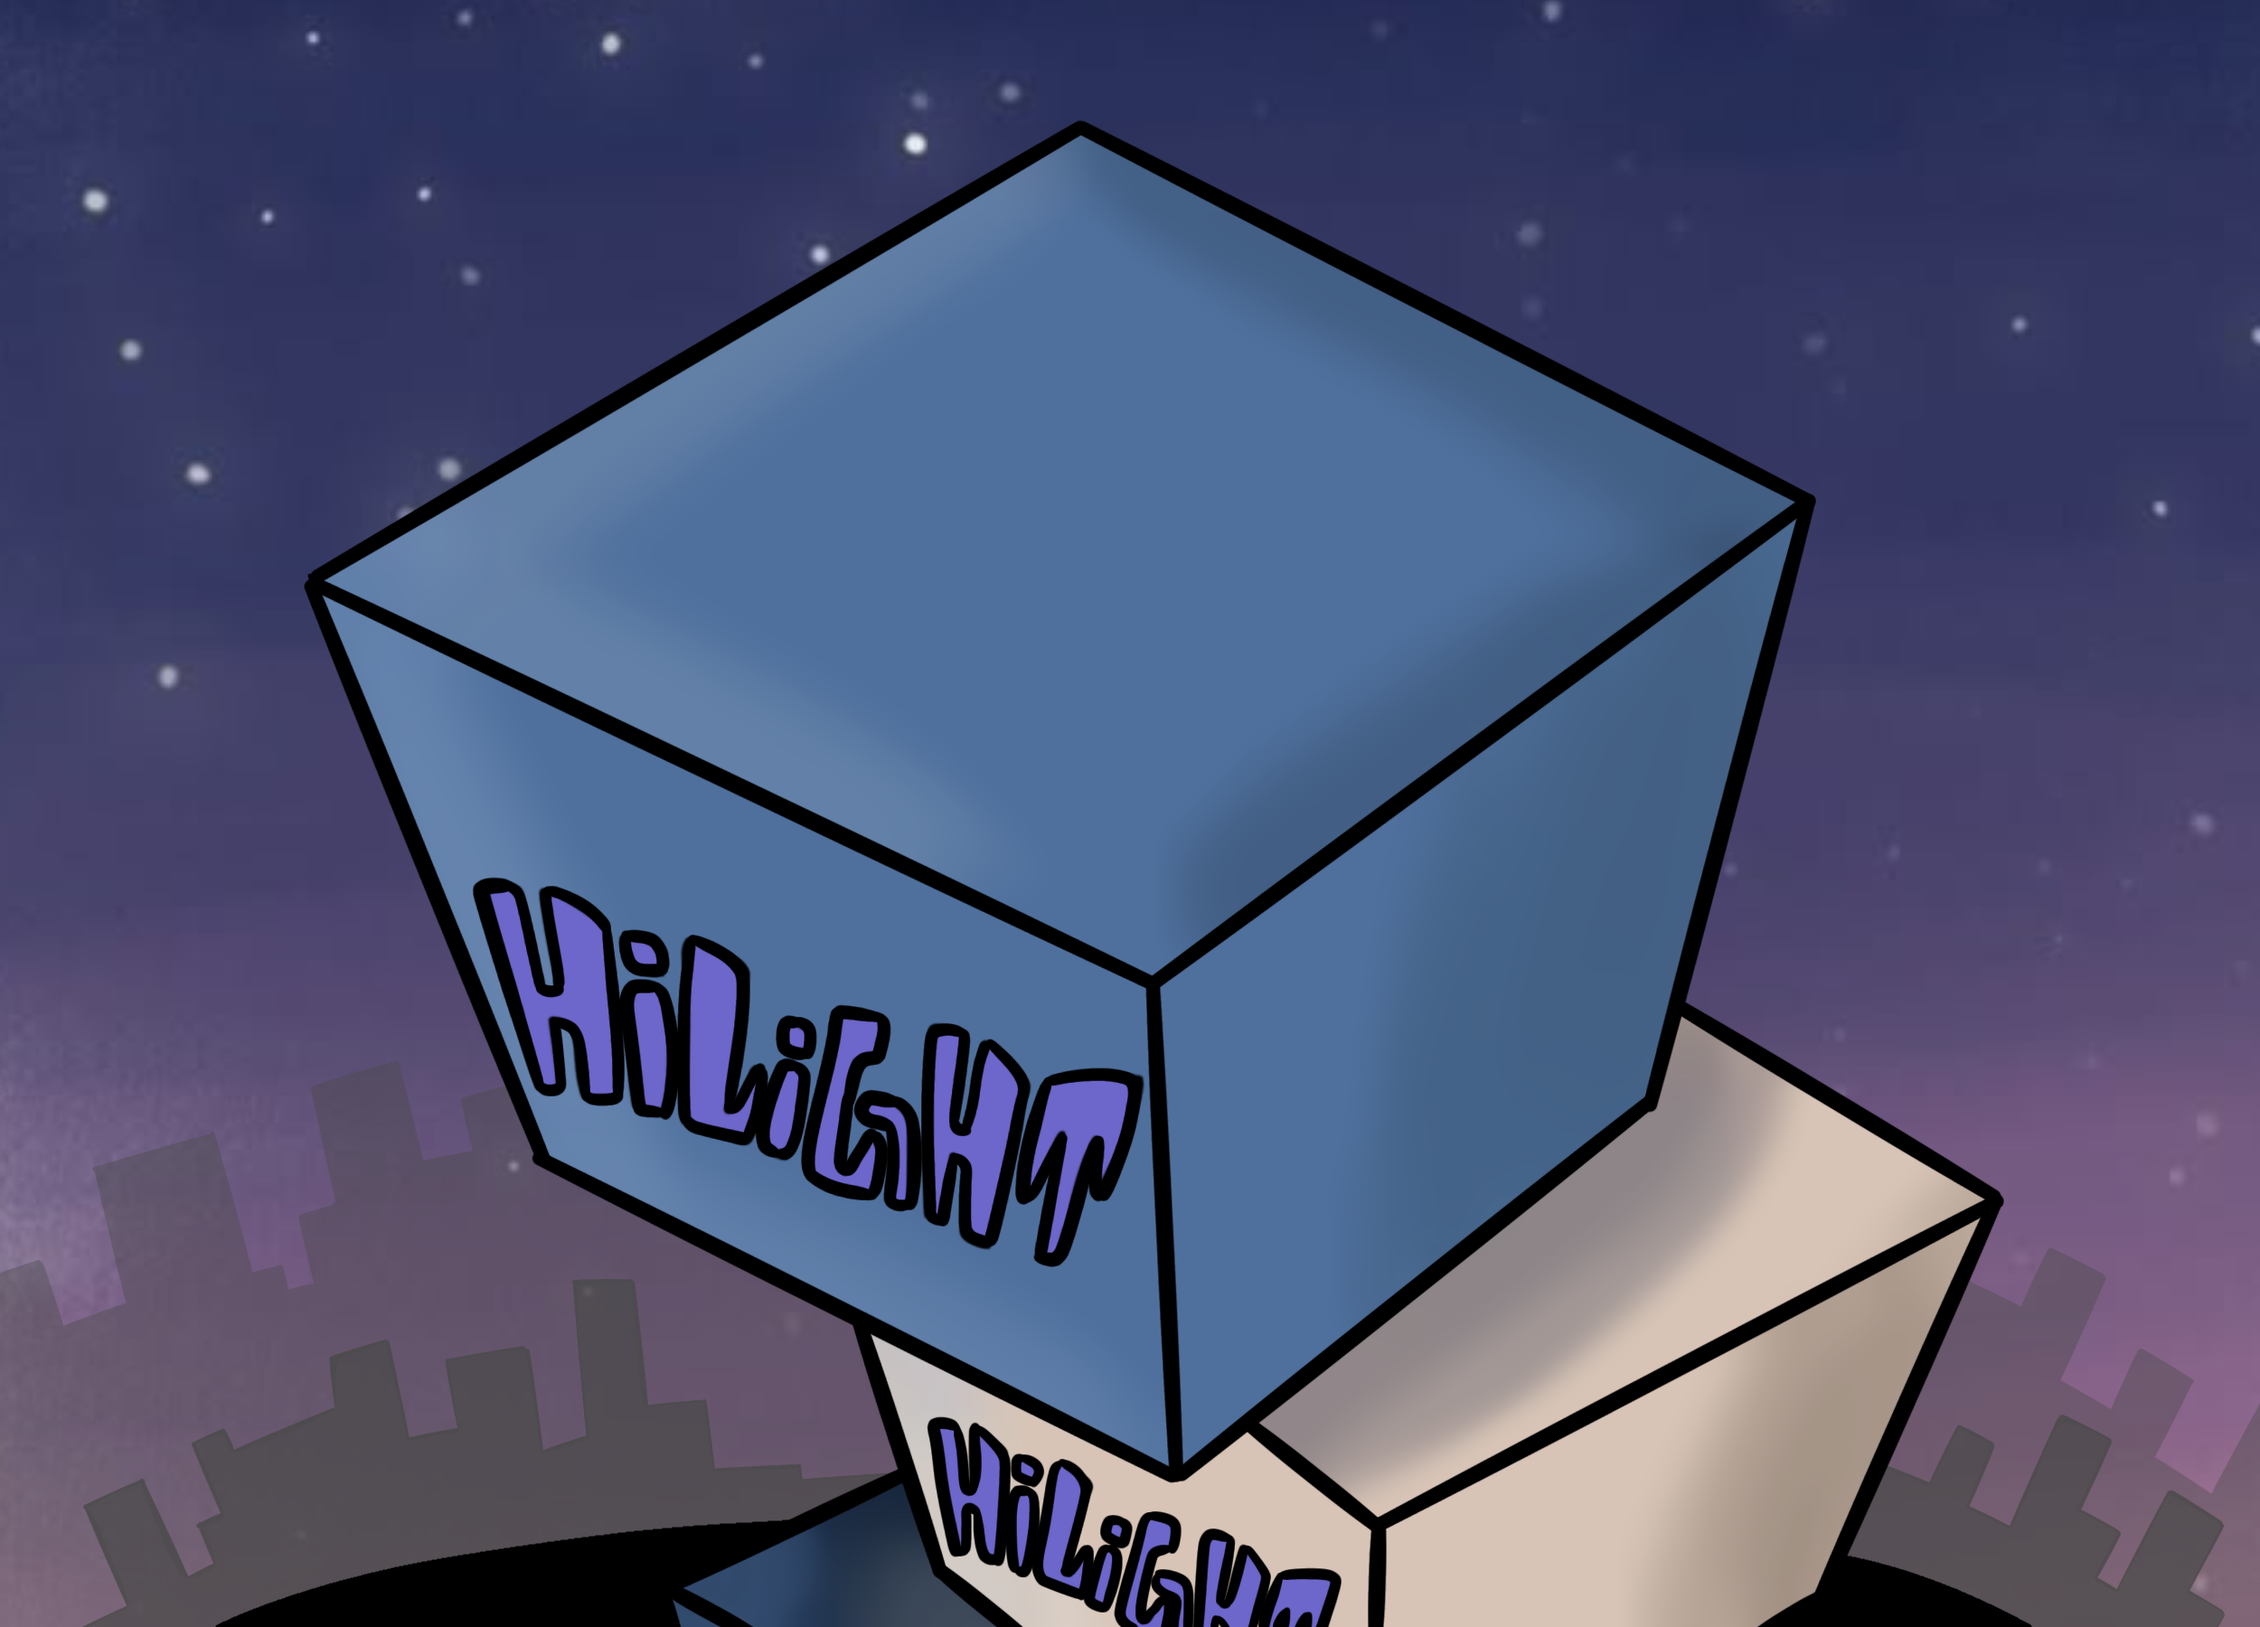
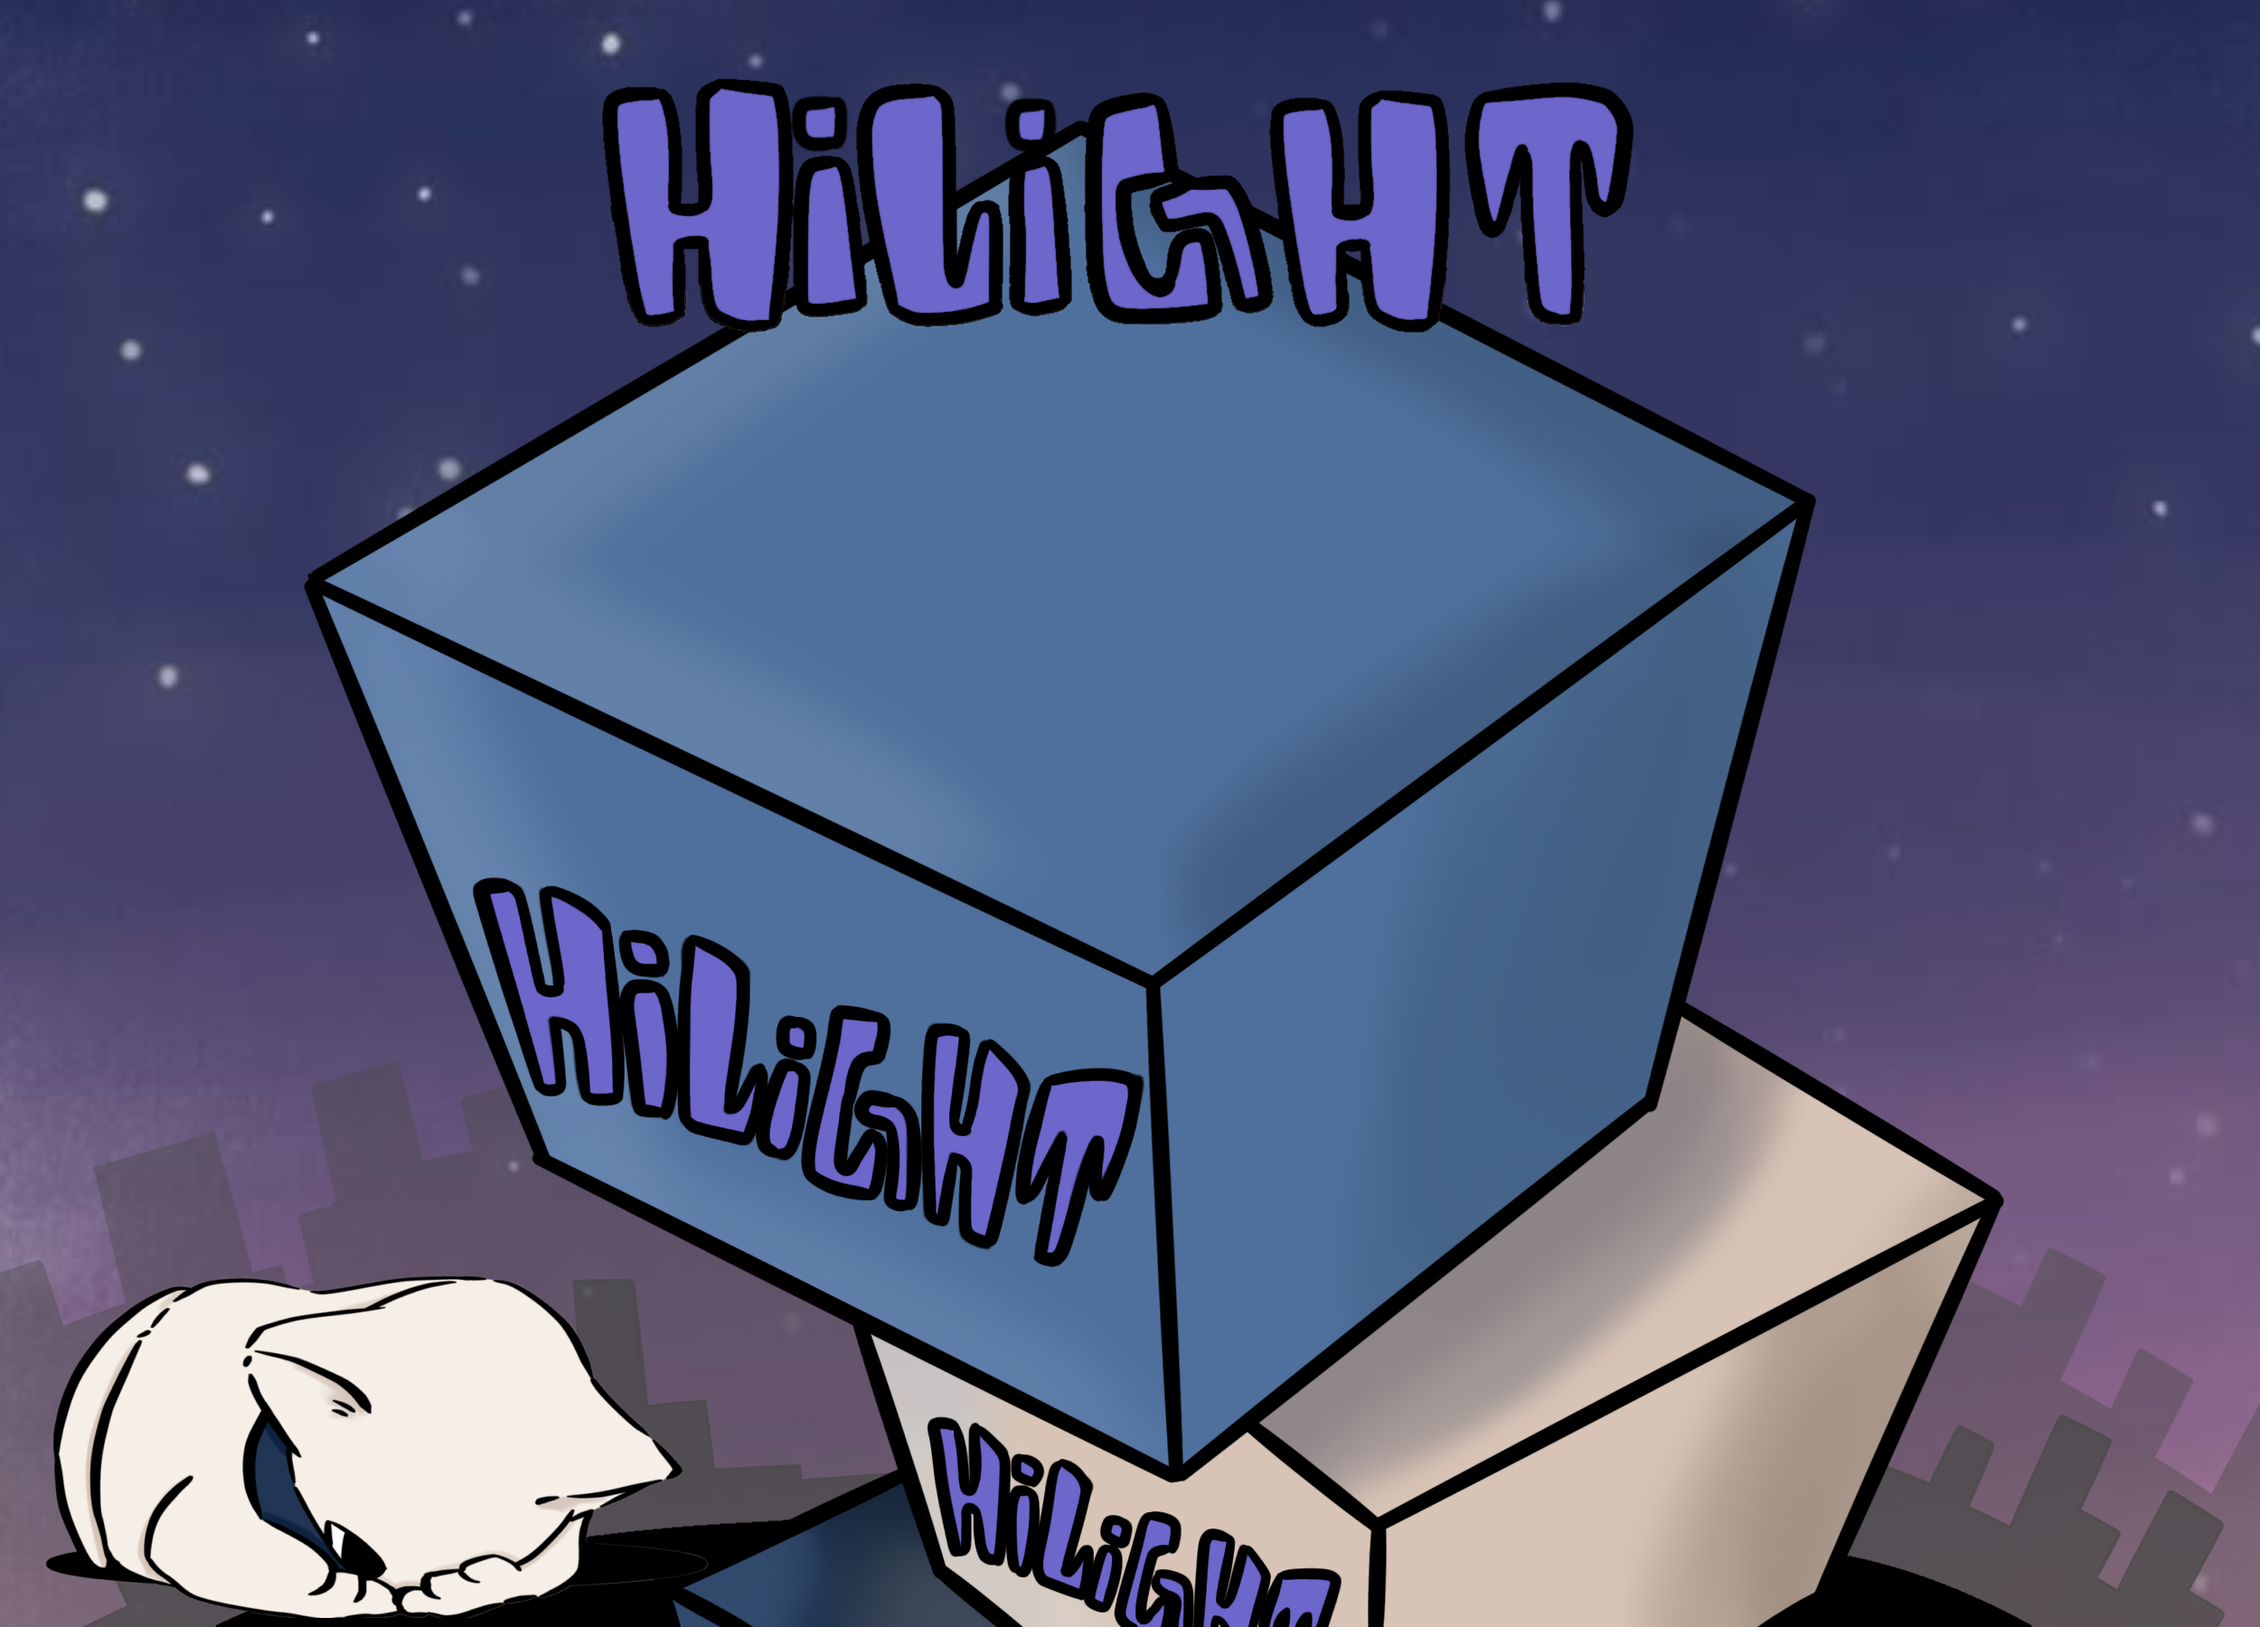
게임 완성

Changed region(s): [[0.2496, 0.0311, 0.7488, 0.2178], [0.0, 0.7778, 0.312, 0.9956]]

diff --git a/lib/pages/games/game6_page.dart b/lib/pages/games/game6_page.dart
@@ -76,9 +76,12 @@ class Game6 extends FlameGame {
   VoidCallback? onGameOut;
   bool gameOutCalled = false; // 중복 호출 방지
 
+  ui.Image? bgImage;
+
   @override
   Future<void> onLoad() async {
     super.onLoad();
+
     final characters = [
       'assets/images/game/part6/cake1.png',
       'assets/images/game/part6/cake2.png',
@@ -86,6 +89,15 @@ class Game6 extends FlameGame {
       'assets/images/game/part6/cake4.png',
       'assets/images/game/part6/cake5.png',
     ];
+
+    // 배경 이미지 로드
+    final data = await rootBundle.load(
+      'assets/images/game/part6/background.png',
+    );
+    final bytes = data.buffer.asUint8List();
+    final codec = await ui.instantiateImageCodec(bytes);
+    final frame = await codec.getNextFrame();
+    bgImage = frame.image;
 
     double gameAreaHeight = 440;
     towerX = size.x / 2 - FlyingBlock.width / 2;
@@ -225,31 +237,39 @@ class Game6 extends FlameGame {
   }
 
   void _renderBackground(Canvas canvas) {
-    double skyHeight = size.y;
-    Rect rect = Rect.fromLTWH(0, 0, size.x, skyHeight);
+    if (bgImage == null) return;
 
-    Color topColor =
-        Color.lerp(
-          Color(0xFF87CEEB),
-          Color(0xFF00172D),
-          (-yOffset / 1000).clamp(0.0, 1.0),
-        )!;
-    Color bottomColor =
-        Color.lerp(
-          Color(0xFF4E6E99),
-          Color(0xFF000010),
-          (-yOffset / 1000).clamp(0.0, 1.0),
-        )!;
+    double screenHeight = 500;
+    double bgWidth = size.x;
 
-    Paint paint =
-        Paint()
-          ..shader = LinearGradient(
-            begin: Alignment.topCenter,
-            end: Alignment.bottomCenter,
-            colors: [topColor, bottomColor],
-          ).createShader(rect);
+    // 배경 세로 길이를 충분히 늘리기
+    double bgHeightOriginal =
+        bgImage!.height.toDouble() * (bgWidth / bgImage!.width.toDouble());
 
-    canvas.drawRect(rect, paint);
+    // 최소 화면 + 타워 최대 예상 높이 만큼 늘리기
+    double extendedHeight = max(
+      bgHeightOriginal,
+      screenHeight + 2000,
+    ); // 2000은 충분히 큰 값
+
+    Rect destRect = Rect.fromLTWH(
+      0,
+      screenHeight - extendedHeight + yOffset,
+      bgWidth,
+      extendedHeight,
+    );
+
+    canvas.drawImageRect(
+      bgImage!,
+      Rect.fromLTWH(
+        0,
+        0,
+        bgImage!.width.toDouble(),
+        bgImage!.height.toDouble(),
+      ),
+      destRect,
+      Paint(),
+    );
   }
 }
 
